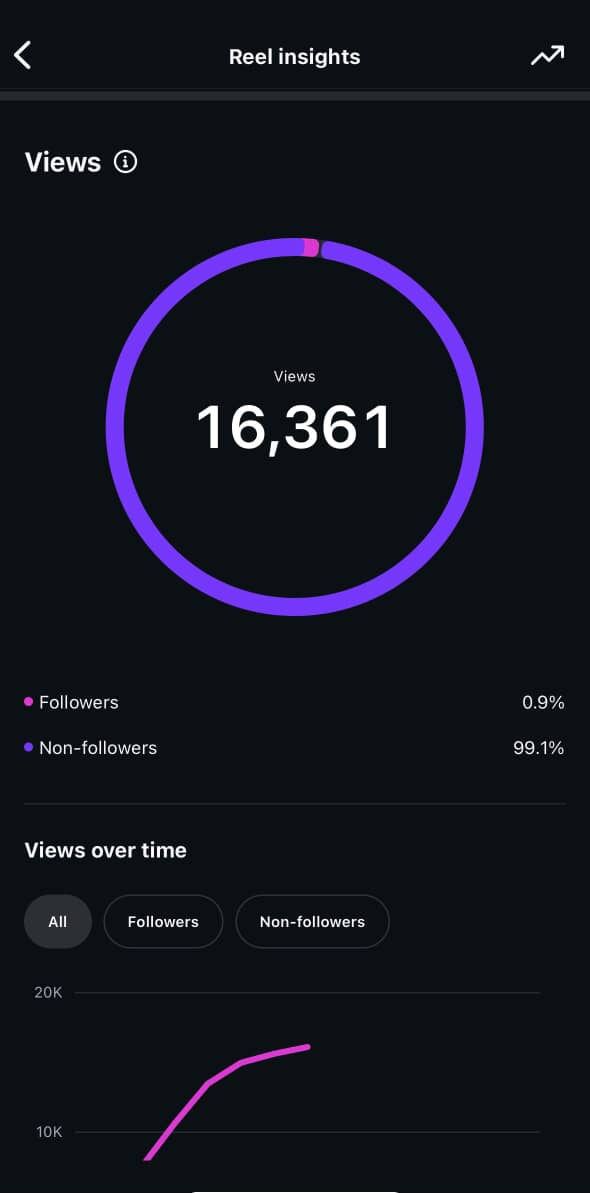
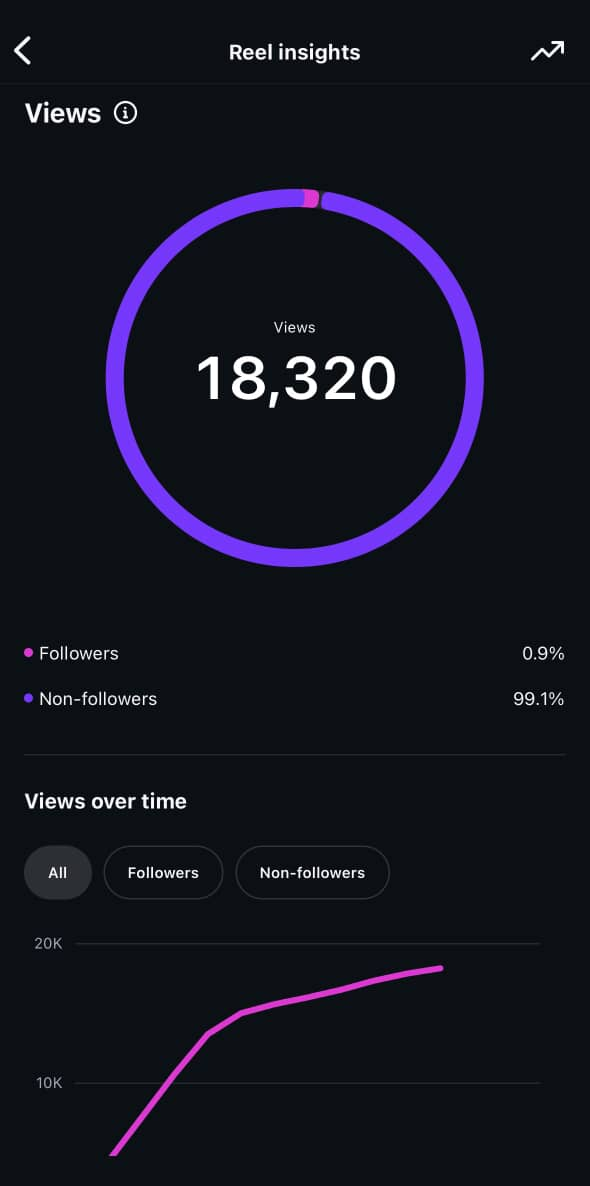
Built Nifemi's Portfolio

diff --git a/src/components/Contact.tsx b/src/components/Contact.tsx
@@ -57,7 +57,7 @@ const contact = () => {
             <div className="max-w-4xl mx-auto">
                 <div className="text-center mb-16">
                     <h2 className="text-4xl font-bold mb-2">Let's Connect</h2>
-                    <div className="w-12 h-1 bg-gradient-to-r from-primary to-accent rounded-full mx-auto mb-4"></div>
+                    <div className="w-12 h-1 bg-gradient-to-r from-[#EAE0D5] via-[#CDE8E5] to-[#7AB2B2] rounded-full mx-auto mb-4"></div>
                     <p className="text-lg text-muted-foreground">Ready to grow your brand? Get in touch!</p>
                 </div>
 
@@ -75,7 +75,7 @@ const contact = () => {
                                 value={formData.name}
                                 onChange={handleChange}
                                 required
-                                className="w-full px-4 py-3 rounded-lg bg-muted border border-border focus:outline-none focus:ring-2 focus:ring-primary transition-all"
+                                className="w-full px-4 py-3 rounded-lg bg-muted border border-border focus:outline-none focus:ring-2 focus:ring-[#7AB2B2] transition-all"
                                 placeholder="Your name"
                             />
                         </div>
@@ -91,7 +91,7 @@ const contact = () => {
                                 value={formData.email}
                                 onChange={handleChange}
                                 required
-                                className="w-full px-4 py-3 rounded-lg bg-muted border border-border focus:outline-none focus:ring-2 focus:ring-primary transition-all"
+                                className="w-full px-4 py-3 rounded-lg bg-muted border border-border focus:outline-none focus:ring-2 focus:ring-[#7AB2B2] transition-all"
                                 placeholder="your@email.com"
                             />
                         </div>
@@ -107,7 +107,7 @@ const contact = () => {
                                 onChange={handleChange}
                                 required
                                 rows={5}
-                                className="w-full px-4 py-3 rounded-lg bg-muted border border-border focus:outline-none focus:ring-2 focus:ring-primary transition-all resize-none"
+                                className="w-full px-4 py-3 rounded-lg bg-muted border border-border focus:outline-none focus:ring-2 focus:ring-[#7AB2B2] transition-all resize-none"
                                 placeholder="Tell me about your project..."
                             />
                         </div>
@@ -115,7 +115,7 @@ const contact = () => {
                         <button
                             type="submit"
                             disabled={isSubmitting}
-                            className="w-full px-6 py-3 bg-primary text-primary-foreground rounded-lg font-semibold hover:shadow-lg hover:shadow-primary/50 transition-all flex items-center justify-center gap-2 group disabled:opacity-50 disabled:cursor-not-allowed"
+                            className="w-full px-6 py-3 bg-[#7AB2B2] text-[#7AB2B2]-foreground rounded-lg font-semibold hover:shadow-lg hover:shadow-[#7AB2B2]/50 transition-all flex items-center justify-center gap-2 group disabled:opacity-50 disabled:cursor-not-allowed"
                         >
                             {isSubmitting ? "Sending..." : "Send Message"}
                             <Send size={18} className="group-hover:translate-x-1 transition-transform" />
@@ -148,14 +148,14 @@ const contact = () => {
 
                         {/* Email */}
                         <div className="flex gap-4 items-start">
-                            <div className="p-3 bg-primary/10 rounded-lg">
-                                <Mail className="text-primary" size={24} />
+                            <div className="p-3 bg-[#7AB2B2]/10 rounded-lg">
+                                <Mail className="text-[#7AB2B2]" size={24} />
                             </div>
                             <div>
                                 <p className="font-semibold">Email</p>
                                 <a
                                     href="mailto:nifemiakinyemi247@gmail.com"
-                                    className="text-muted-foreground hover:text-primary transition-colors"
+                                    className="text-muted-foreground hover:text-[#7AB2B2] transition-colors"
                                 >
                                     nifemiakinyemi247@gmail.com
                                 </a>
@@ -180,7 +180,7 @@ const contact = () => {
                                     href="https://www.instagram.com/nifesocials/"
                                     target="_blank"
                                     rel="noopener noreferrer"
-                                    className="p-3 bg-muted hover:bg-primary hover:text-primary-foreground rounded-lg transition-all"
+                                    className="p-3 bg-muted hover:bg-[#7AB2B2] hover:text-[#7AB2B2]-foreground rounded-lg transition-all"
                                     aria-label="Instagram"
                                 >
                                     <FaInstagram size={20} />
@@ -189,7 +189,7 @@ const contact = () => {
                                     href="mailto:nifemiakinyemi247@gmail.com"
                                     target="_blank"
                                     rel="noopener noreferrer"
-                                    className="p-3 bg-muted hover:bg-primary hover:text-primary-foreground rounded-lg transition-all"
+                                    className="p-3 bg-muted hover:bg-[#7AB2B2] hover:text-[#7AB2B2]-foreground rounded-lg transition-all"
                                 >
                                     <Mail size={20} />
                                 </a>

diff --git a/src/components/Projects.tsx b/src/components/Projects.tsx
@@ -8,21 +8,21 @@ const Projects = () => {
         {
             id: 1,
             title: "Viral Reel Campaign",
-            description: "Created engaging reel content that reached 109K+ views with 99% non-follower reach.",
+            description: "Created engaging reel content that reached 187K+ views with 99% non-follower reach.",
             image: reel3,
             stats: [
-                { label: "Views", value: "109K", icon: Eye },
-                { label: "Followers", value: "1.0%", icon: Users },
-                { label: "Non-followers", value: "99.0%", icon: Heart },
+                { label: "Views", value: "187K", icon: Eye },
+                { label: "Followers", value: "0.7%", icon: Users },
+                { label: "Non-followers", value: "99.3%", icon: Heart },
             ],
         },
         {
             id: 2,
             title: "Brand Awareness Reel",
-            description: "Strategic content that generated 51K views with strong non-follower engagement.",
+            description: "Strategic content that generated 52K+ views with strong non-follower engagement.",
             image: reel2,
             stats: [
-                { label: "Views", value: "51K", icon: Eye },
+                { label: "Views", value: "52K", icon: Eye },
                 { label: "Followers", value: "2.3%", icon: Users },
                 { label: "Non-followers", value: "97.7%", icon: Heart },
             ],
@@ -30,10 +30,10 @@ const Projects = () => {
         {
             id: 3,
             title: "Growth Focused Content",
-            description: "Engaging reel that achieved 16K+ views with excellent organic reach.",
+            description: "Engaging reel that achieved 18K+ views with excellent organic reach.",
             image: reel1,
             stats: [
-                { label: "Views", value: "16K", icon: Eye },
+                { label: "Views", value: "18K", icon: Eye },
                 { label: "Followers", value: "0.9%", icon: Users },
                 { label: "Non-followers", value: "99.1%", icon: Heart },
             ],
@@ -45,7 +45,7 @@ const Projects = () => {
             <div className="max-w-6xl mx-auto">
                 <div className="text-center mb-16">
                     <h2 className="text-4xl font-bold mb-2">Past Projects</h2>
-                    <div className="w-12 h-1 bg-gradient-to-r from-primary to-accent rounded-full mx-auto mb-4"></div>
+                    <div className="w-12 h-1 bg-gradient-to-r from-[#EAE0D5] via-[#CDE8E5] to-[#7AB2B2] rounded-full mx-auto mb-4"></div>
                     <p className="text-lg text-muted-foreground">Showcasing successful campaigns and brand growth stories</p>
                 </div>
 
@@ -76,7 +76,7 @@ const Projects = () => {
                                         const Icon = stat.icon
                                         return (
                                             <div key={index} className="text-center">
-                                                <Icon className="text-primary mx-auto mb-1" size={18} />
+                                                <Icon className="text-[#7AB2B2] mx-auto mb-1" size={18} />
                                                 <p className="font-bold text-sm">{stat.value}</p>
                                                 <p className="text-xs text-muted-foreground">{stat.label}</p>
                                             </div>

diff --git a/src/components/Header.tsx b/src/components/Header.tsx
@@ -44,7 +44,7 @@ const Header = () => {
       <nav className="max-w-7xl mx-auto px-4 sm:px-6 lg:px-8 py-4 flex items-center justify-between">
         <a
           href="#home"
-          className="text-2xl font-bold bg-gradient-to-r from-primary to-accent bg-clip-text text-transparent"
+          className="text-2xl font-bold bg-gradient-to-r from-[#EAE0D5] via-[#CDE8E5] to-[#7AB2B2] bg-clip-text text-transparent"
         >
           Nifemi
         </a>
@@ -56,13 +56,13 @@ const Header = () => {
               key={link.href}
               href={link.href}
               className={`text-sm font-medium transition-all relative group ${activeSection === link.id
-                ? "text-primary"
-                : "text-foreground hover:text-primary"
+                ? "text-[#7AB2B2] font-semibold" 
+                : "text-gray hover:text-[#7AB2B2]"
                 }`}
             >
               {link.label}
               <span
-                className={`absolute -bottom-1 left-0 h-0.5 bg-primary transition-all duration-300 ${activeSection === link.id ? "w-full" : "w-0 group-hover:w-full"
+                className={`absolute -bottom-1 left-0 h-0.5 bg-[#7AB2B2] transition-all duration-300 ${activeSection === link.id ? "w-full" : "w-0 group-hover:w-full"
                   }`}
               ></span>
             </a>
@@ -73,7 +73,7 @@ const Header = () => {
         <div className="flex items-center gap-4">
           <a
             href="#contact"
-            className="px-4 py-2 text-sm sm:px-8 sm:py-3 sm:text-base border-2 border-primary text-primary rounded-lg font-semibold hover:bg-primary/10 transition-colors"
+            className="px-4 py-2 text-sm sm:px-8 sm:py-3 sm:text-base border-2 border-[#7AB2B2] text-[#7AB2B2] rounded-lg font-semibold hover:bg-[#7AB2B2]/10 transition-colors"
           >
             <span className="hidden sm:inline">Get in Touch</span>
             <span className="sm:hidden inline">Contact</span>
@@ -96,13 +96,13 @@ const Header = () => {
                   key={link.href}
                   href={link.href}
                   className={`text-sm font-medium transition-colors flex items-center gap-2 ${activeSection === link.id
-                    ? "text-primary font-semibold"
-                    : "text-foreground hover:text-primary"
+                    ? "text-[#7AB2B2] font-semibold"
+                    : "text-foreground hover:text-[#7AB2B2]"
                     }`}
                   onClick={() => setIsOpen(false)}
                 >
                   {activeSection === link.id && (
-                    <span className="w-1.5 h-1.5 rounded-full bg-primary"></span>
+                    <span className="w-1.5 h-1.5 rounded-full bg-[#7AB2B2]"></span>
                   )}
                   {link.label}
                 </a>

diff --git a/src/components/Footer.tsx b/src/components/Footer.tsx
@@ -10,7 +10,7 @@ const Footer = () => {
           <div className="grid md:grid-cols-3 gap-8 mb-8">
             {/* Brand */}
             <div>
-              <h3 className="text-lg font-bold bg-gradient-to-r from-primary to-accent bg-clip-text text-transparent mb-2">
+              <h3 className="text-lg font-bold bg-gradient-to-r from-[#EAE0D5] via-[#CDE8E5] to-[#7AB2B2] bg-clip-text text-transparent mb-2">
                 Nifemi
               </h3>
               <p className="text-sm text-muted-foreground">
@@ -23,22 +23,22 @@ const Footer = () => {
               <h4 className="font-semibold mb-4">Quick Links</h4>
               <ul className="space-y-2 text-sm text-muted-foreground">
                 <li>
-                  <a href="#home" className="hover:text-primary transition-colors">
+                  <a href="#home" className="hover:text-[#7AB2B2] transition-colors">
                     Home
                   </a>
                 </li>
                 <li>
-                  <a href="#about" className="hover:text-primary transition-colors">
+                  <a href="#about" className="hover:text-[#7AB2B2] transition-colors">
                     About
                   </a>
                 </li>
                 <li>
-                  <a href="#projects" className="hover:text-primary transition-colors">
+                  <a href="#projects" className="hover:text-[#7AB2B2] transition-colors">
                     Projects
                   </a>
                 </li>
                 <li>
-                  <a href="#reviews" className="hover:text-primary transition-colors">
+                  <a href="#reviews" className="hover:text-[#7AB2B2] transition-colors">
                     Reviews
                   </a>
                 </li>
@@ -53,7 +53,7 @@ const Footer = () => {
                   href="https://www.instagram.com/nifesocials/"
                   target="_blank"
                   rel="noopener noreferrer"
-                  className="p-2 bg-muted hover:bg-primary hover:text-primary-foreground rounded-lg transition-all"
+                  className="p-2 bg-muted hover:bg-[#7AB2B2] hover:text-[#7AB2B2]-foreground rounded-lg transition-all"
                 >
                   <FaInstagram size={18} />
                 </a>
@@ -61,7 +61,7 @@ const Footer = () => {
                   href="mailto:nifemiakinyemi247@gmail.com"
                   target="_blank"
                   rel="noopener noreferrer"
-                  className="p-2 bg-muted hover:bg-primary hover:text-primary-foreground rounded-lg transition-all"
+                  className="p-2 bg-muted hover:bg-[#7AB2B2] hover:text-[#7AB2B2]-foreground rounded-lg transition-all"
                 >
                   <Mail size={18} />
                 </a>

diff --git a/src/components/Hero.tsx b/src/components/Hero.tsx
@@ -26,7 +26,7 @@ const Hero = () => {
                 <div className="space-y-4">
                     <h1 className="text-5xl sm:text-6xl lg:text-7xl font-bold text-balance text-white">
                         Helping Brands Grow,{" "}
-                        <span className="bg-gradient-to-r from-primary via-accent to-secondary bg-clip-text text-transparent">
+                        <span className="bg-gradient-to-r from-[#EAE0D5] via-[#CDE8E5] to-[#7AB2B2] bg-clip-text text-transparent">
                             One Post at a Time
                         </span>
                     </h1>
@@ -39,14 +39,14 @@ const Hero = () => {
                 <div className="flex flex-col sm:flex-row gap-4 justify-center pt-8">
                     <button
                         onClick={scrollToProjects}
-                        className="px-8 py-3 bg-primary text-primary-foreground rounded-lg font-semibold hover:shadow-lg hover:shadow-primary/50 transition-all duration-300 flex items-center justify-center gap-2 group"
+                        className="px-8 py-3 bg-[#7AB2B2] text-[#7AB2B2]-foreground rounded-lg font-semibold hover:shadow-lg hover:shadow-[#7AB2B2]/50 transition-all duration-300 flex items-center justify-center gap-2 group"
                     >
                         View My Work
                         <ArrowRight size={20} className="group-hover:translate-x-1 transition-transform" />
                     </button>
                     <a
                         href="#contact"
-                        className="px-8 py-3 border-2 border-primary text-primary rounded-lg font-semibold hover:bg-primary/10 transition-colors"
+                        className="px-8 py-3 border-2 border-[#7AB2B2] text-[#7AB2B2] rounded-lg font-semibold hover:bg-[#7AB2B2]/10 transition-colors"
                     >
                         Get in Touch
                     </a>

diff --git a/src/components/About.tsx b/src/components/About.tsx
@@ -30,7 +30,7 @@ const About = () => {
                     <div className="space-y-6">
                         <div>
                             <h2 className="text-4xl font-bold mb-2">About Me</h2>
-                            <div className="w-12 h-1 bg-gradient-to-r from-primary to-accent rounded-full"></div>
+                            <div className="w-12 h-1 bg-gradient-to-r from-[#EAE0D5] via-[#CDE8E5] to-[#7AB2B2] rounded-full"></div>
                         </div>
 
                         <p className="text-lg text-muted-foreground leading-relaxed">
@@ -44,7 +44,7 @@ const About = () => {
                             <h3 className="text-xl font-semibold">Experience Highlights</h3>
                             {highlights.map((highlight, index) => (
                                 <div key={index} className="flex gap-3 items-start">
-                                    <CheckCircle2 className="text-primary flex-shrink-0 mt-1" size={20} />
+                                    <CheckCircle2 className="text-[#7AB2B2] flex-shrink-0 mt-1" size={20} />
                                     <p className="text-muted-foreground">{highlight}</p>
                                 </div>
                             ))}
@@ -53,7 +53,7 @@ const About = () => {
                         <div className="pt-4">
                             <a
                                 href="#contact"
-                                className="inline-block px-6 py-2 bg-primary text-primary-foreground rounded-lg font-semibold hover:shadow-lg hover:shadow-primary/50 transition-all"
+                                className="inline-block px-6 py-2 bg-[#7AB2B2] text-[#7AB2B2]-foreground rounded-lg font-semibold hover:shadow-lg hover:shadow-[#7AB2B2]/50 transition-all"
                             >
                                 Let's Collaborate
                             </a>

diff --git a/src/components/Reviews.tsx b/src/components/Reviews.tsx
@@ -26,7 +26,7 @@ const reviews = () => {
             <div className="max-w-6xl mx-auto">
                 <div className="text-center mb-16">
                     <h2 className="text-4xl font-bold mb-2">Client Reviews</h2>
-                    <div className="w-12 h-1 bg-gradient-to-r from-primary to-accent rounded-full mx-auto mb-4"></div>
+                    <div className="w-12 h-1 bg-gradient-to-r from-[#EAE0D5] via-[#CDE8E5] to-[#7AB2B2] rounded-full mx-auto mb-4"></div>
                     <p className="text-lg text-muted-foreground">What brands say about working together</p>
                 </div>
 

diff --git a/src/components/Mockups.tsx b/src/components/Mockups.tsx
@@ -75,7 +75,7 @@ const Mockups = () => {
       <div className="max-w-6xl mx-auto">
         <div className="text-center mb-12">
           <h2 className="text-4xl font-bold mb-2">Mockups</h2>
-          <div className="w-12 h-1 bg-gradient-to-r from-primary to-accent rounded-full mx-auto"></div>
+          <div className="w-12 h-1 bg-gradient-to-r from-[#EAE0D5] via-[#CDE8E5] to-[#7AB2B2] rounded-full mx-auto"></div>
           <p className="text-lg text-muted-foreground mt-4">
             Design previews and concept visuals
           </p>
